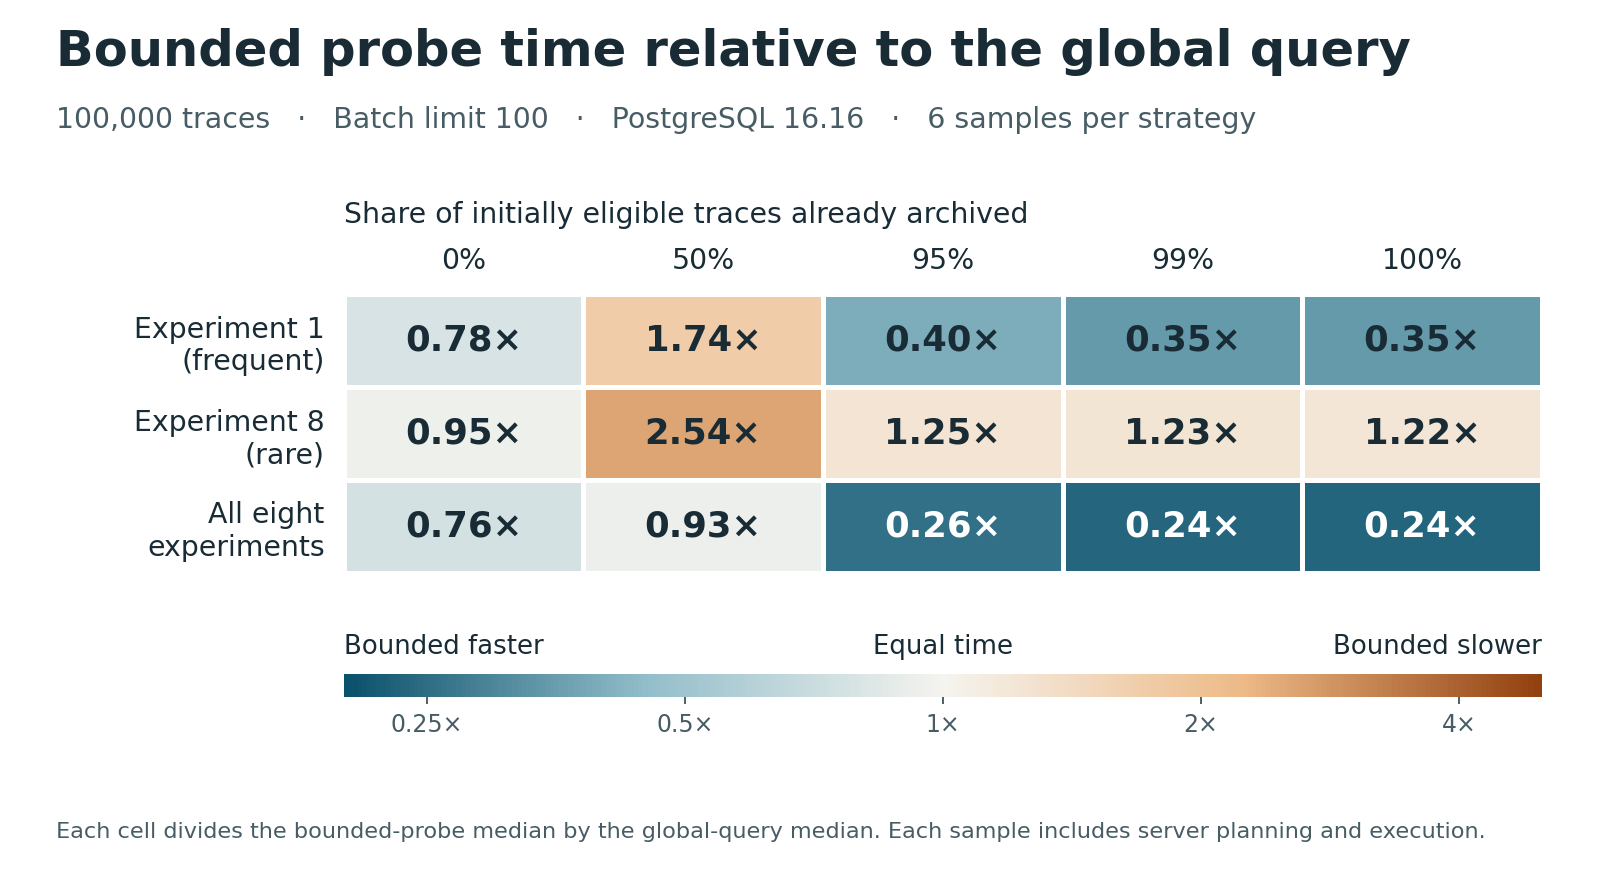
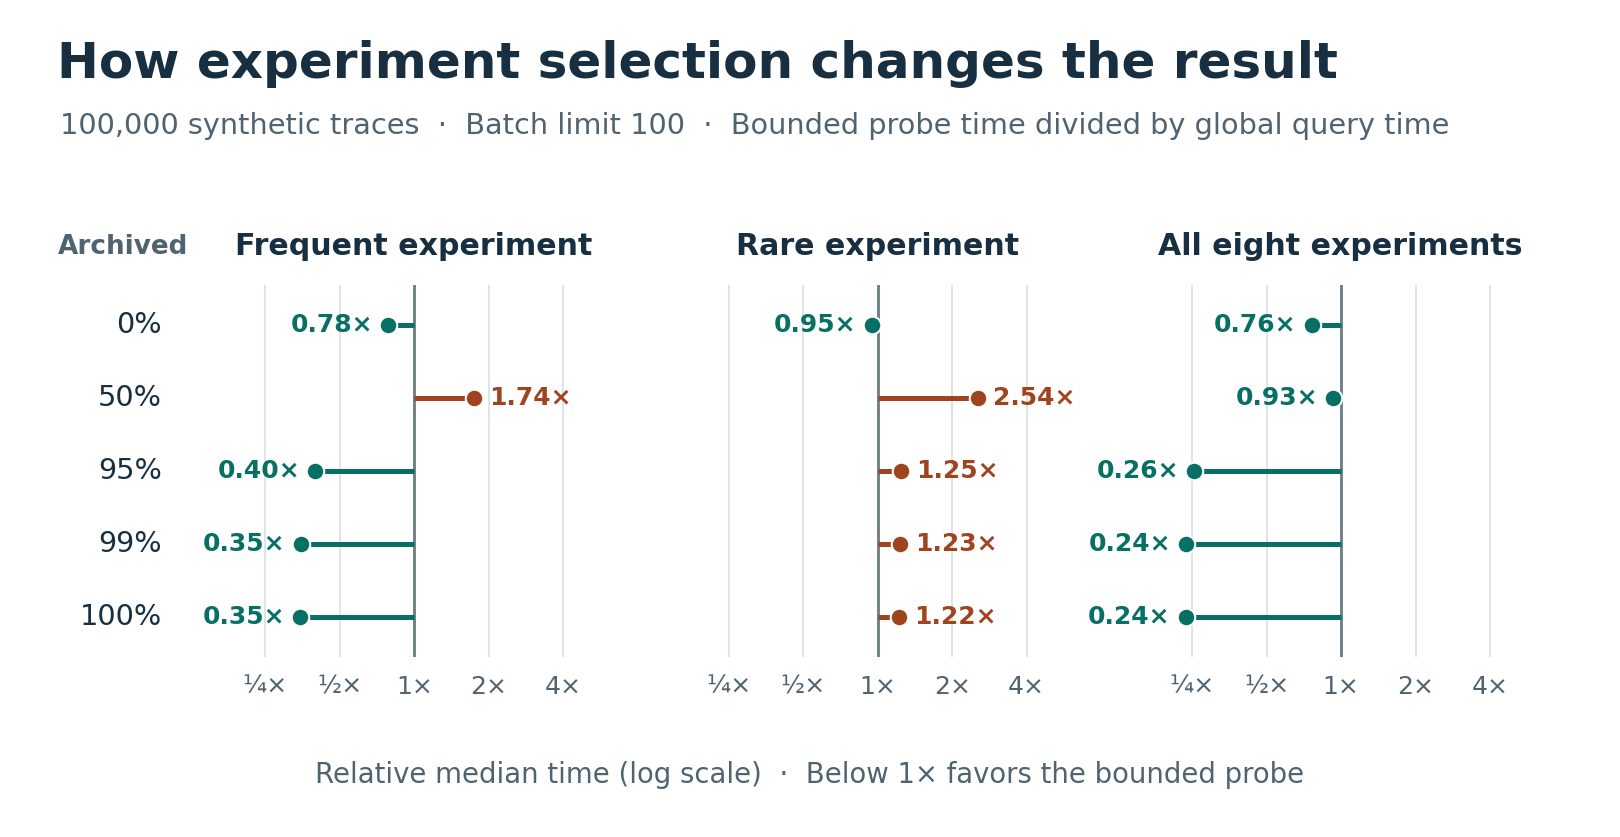
Chart archival query latency and experiment scope in the README

diff --git a/results/strategy-study/plot.py b/results/strategy-study/plot.py
@@ -1,5 +1,4 @@
-"""Regenerate scope-and-depth.png from matrix.json.gz. Requires Matplotlib."""
-
+"""Rebuild the two README charts from the published study reports. Requires Matplotlib."""
 import gzip
 import json
 from pathlib import Path
@@ -9,82 +8,115 @@ import matplotlib
 
 matplotlib.use("Agg")
 from matplotlib import pyplot as plt
-from matplotlib.colors import LinearSegmentedColormap, LogNorm
+from matplotlib.lines import Line2D
 from matplotlib.ticker import NullLocator
 
 
 HERE = Path(__file__).resolve().parent
-DEPTHS = [0, 50, 95, 99, 100]
-SCOPES = {
-    (1,): "Experiment 1\n(frequent)",
-    (8,): "Experiment 8\n(rare)",
-    tuple(range(1, 9)): "All eight\nexperiments",
-}
+INK = "#172f40"
+MUTED = "#4f6370"
+GRID = "#dee5e8"
+FRESH = "#365d80"
+LATE = "#784d88"
+FASTER = "#086f65"
+SLOWER = "#a0441f"
+DEPTHS = (0, 50, 95, 99, 100)
+ALL = tuple(range(1, 9))
+STRATEGIES = {"global": "Global (MLflow)", "per_experiment": "Per experiment", "bounded_probe": "Bounded probe"}
 
 
-def median_time(measurement):
-    pairs = zip(measurement["planning_samples_ms"], measurement["samples_ms"], strict=True)
-    return median(planning + execution for planning, execution in pairs)
+def load_report(name):
+    with gzip.open(HERE / name, "rt", encoding="utf-8") as source:
+        return json.load(source)
 
 
-def main():
-    with gzip.open(HERE / "matrix.json.gz", "rt", encoding="utf-8") as source:
-        report = json.load(source)
-    ratios = {}
-    for case in report["cases"]:
-        if case["rows"] == 100_000 and case["batch_size"] == 100:
-            strategies = case["strategies"]
-            key = tuple(case["experiment_ids"]), case["archived_pct"]
-            ratios[key] = median_time(strategies["bounded_probe"]) / median_time(strategies["global"])
-    values = [[ratios[scope, pct] for pct in DEPTHS] for scope in SCOPES]
+def median_ms(measurement):
+    samples = zip(measurement["planning_samples_ms"], measurement["samples_ms"], strict=True)
+    return median(planning + execution for planning, execution in samples)
 
-    ink = "#192c35"
-    muted = "#475c64"
-    palette = LinearSegmentedColormap.from_list(
-        "time_ratio", ["#09506a", "#92bdca", "#f5f4ef", "#edba88", "#91400e"]
-    )
-    # Reciprocal endpoints place equal speed exactly at the midpoint of the log scale.
-    extent = max(5, max(ratios.values()), 1 / min(ratios.values()))
-    scale = LogNorm(vmin=1 / extent, vmax=extent)
 
-    fig = plt.figure(figsize=(9.4, 5.2), facecolor="white")
-    fig.text(.035, .925, "Bounded probe time relative to the global query",
-             fontsize=21, weight="bold", color=ink)
-    version = report["postgres_settings"]["server_version"].split()[0]
-    fig.text(.035, .855, f"100,000 traces   ·   Batch limit 100   ·   PostgreSQL {version}"
-             f"   ·   {report['samples_per_strategy']} samples per strategy", fontsize=12, color=muted)
+def figure(height, title, caption):
+    fig = plt.figure(figsize=(9, height), facecolor="white")
+    fig.text(.035, 1 - .22 / height, title, va="top", fontsize=20, weight="bold", color=INK)
+    fig.text(.037, 1 - .62 / height, caption, va="top", fontsize=11.5, color=MUTED)
+    return fig
 
-    ax = fig.add_axes([.215, .352, .750, .315])
-    mesh = ax.pcolormesh(values, cmap=palette, norm=scale, edgecolors="white", linewidth=2)
-    ax.invert_yaxis()
-    ax.xaxis.tick_top()
-    ax.set_xticks([i + .5 for i in range(len(DEPTHS))], labels=[f"{pct}%" for pct in DEPTHS])
-    ax.set_yticks([i + .5 for i in range(len(SCOPES))], labels=SCOPES.values())
-    ax.tick_params(length=0, labelcolor=ink, labelsize=12, pad=8)
+
+def log_axis(ax, ticks, labels):
+    ax.set_xscale("log")
+    ax.set_xticks(ticks, labels)
+    ax.xaxis.set_minor_locator(NullLocator())
     ax.spines[:].set_visible(False)
-    fig.text(.215, .748, "Share of initially eligible traces already archived", fontsize=12, color=ink)
-    for row, series in enumerate(values):
-        for col, value in enumerate(series):
-            r, g, b, _ = palette(scale(value))
-            light = .2126 * r**2.2 + .7152 * g**2.2 + .0722 * b**2.2
-            ax.text(col + .5, row + .5, f"{value:.2f}×", va="center", ha="center",
-                    fontsize=15, weight="bold", color="white" if light < .24 else ink)
+    ax.tick_params(length=0, colors=MUTED, labelsize=10, pad=7)
+    ax.set_axisbelow(True)
+    ax.grid(axis="x", color=GRID, linewidth=.8)
 
-    bar_ax = fig.add_axes([.215, .211, .750, .026])
-    bar = fig.colorbar(mesh, cax=bar_ax, orientation="horizontal")
-    bar.set_ticks([.25, .5, 1, 2, 4], labels=["0.25×", "0.5×", "1×", "2×", "4×"])
-    bar.ax.xaxis.set_minor_locator(NullLocator())
-    bar.ax.tick_params(length=3, colors=muted, labelsize=10)
-    bar.outline.set_visible(False)
-    for x, label, align in [(.215, "Bounded faster", "left"), (.59, "Equal time", "center"),
-                            (.965, "Bounded slower", "right")]:
-        fig.text(x, .26, label, ha=align, fontsize=11, color=ink)
 
-    fig.text(.035, .052, "Each cell divides the bounded-probe median by the global-query median. "
-             "Each sample includes server planning and execution.", fontsize=9.5, color=muted)
-    fig.savefig(HERE / "scope-and-depth.png", dpi=170)
+def latency_chart(start, late):
+    fig = figure(3.95, "Time to select the next 100 traces",
+                 "1 million synthetic traces  ·  All eight experiments  ·  PostgreSQL "
+                 + start["postgres_settings"]["server_version"].split()[0])
+    ax = fig.add_axes([.216, .24, .735, .435])
+    log_axis(ax, [1, 3, 10, 30, 100, 300, 1000, 3000],
+             ["1", "3", "10", "30", "100", "300", "1,000", "3,000"])
+    ax.set(xlim=(.72, 3450), ylim=(-.36, 2.65))
+    ax.set_yticks([2, 1, 0], STRATEGIES.values(), fontsize=12, color=INK)
+    ax.tick_params(axis="y", pad=15)
+    ax.set_xlabel("Median planning + execution time (ms, log scale)", fontsize=11, color=MUTED, labelpad=10)
+
+    first, last = start["cases"][0], late["cases"][0]
+    for y, key in zip([2, 1, 0], STRATEGIES):
+        a, b = (median_ms(case["strategies"][key]) for case in (first, last))
+        ax.plot([a, b], [y, y], color="#b7c6cf", lw=2.3, zorder=2)
+        for x, marker, color, face in [(a, "o", FRESH, "white"), (b, "D", LATE, LATE)]:
+            ax.plot(x, y, marker=marker, mec=color, mfc=face, ms=7, mew=1.8, zorder=3)
+            ax.annotate(f"{x:,.2f}", (x, y), xytext=(0, 8), textcoords="offset points",
+                        ha="center", va="bottom", color=color, fontsize=10.5, weight="bold")
+
+    handles = [Line2D([], [], linestyle="none", marker=marker, markeredgewidth=1.8, markersize=7,
+                      markeredgecolor=color, markerfacecolor=face, label=label)
+               for marker, color, face, label in [
+                   ("o", FRESH, "white", "Fresh queue (0% archived)"),
+                   ("D", LATE, LATE, "Late queue (95% archived)")]]
+    fig.legend(handles=handles, loc="center left", bbox_to_anchor=(.027, .72), ncol=2,
+               frameon=False, handletextpad=.2, columnspacing=1.6, labelcolor=INK, fontsize=10.5)
+    fig.savefig(HERE / "query-latency.png", dpi=180)
+    plt.close(fig)
+
+
+def scope_chart(report):
+    fig = figure(4.65, "How experiment selection changes the result",
+                 "100,000 synthetic traces  ·  Batch limit 100  ·  Bounded probe time divided by global query time")
+    cases = {(tuple(c["experiment_ids"]), c["archived_pct"]): c for c in report["cases"]
+             if c["rows"] == 100_000 and c["batch_size"] == 100}
+    scopes = [((1,), "Frequent experiment"), ((8,), "Rare experiment"), (ALL, "All eight experiments")]
+    fig.text(.036, .696, "Archived", color=MUTED, fontsize=10.5, weight="bold")
+    for i, (scope, title) in enumerate(scopes):
+        ax = fig.add_axes([.13 + i * .286, .215, .251, .445])
+        log_axis(ax, [.25, .5, 1, 2, 4], ["¼×", "½×", "1×", "2×", "4×"])
+        ax.set(xlim=(.15, 6.6), ylim=(4.55, -.55))
+        ax.set_title(title, fontsize=12, loc="center", color=INK, weight="bold", pad=12)
+        ax.set_yticks(range(len(DEPTHS)))
+        ax.tick_params(axis="y", labelleft=False)
+        ax.axvline(1, color="#6d8088", lw=1.15, zorder=2)
+        for y, pct in enumerate(DEPTHS):
+            values = cases[scope, pct]["strategies"]
+            ratio = median_ms(values["bounded_probe"]) / median_ms(values["global"])
+            color = FASTER if ratio <= 1 else SLOWER
+            ax.hlines(y, 1, ratio, color=color, lw=2.0, zorder=2)
+            ax.plot(ratio, y, marker="o", mfc=color, mec="white", mew=.8, ms=7, zorder=3)
+            offset, align = (-6, "right") if ratio <= 1 else (6, "left")
+            ax.annotate(f"{ratio:.2f}×", (ratio, y), xytext=(offset, 0), textcoords="offset points",
+                        va="center", ha=align, fontsize=10, color=color, weight="bold")
+            if i == 0:
+                ax.text(-.12, y, f"{pct}%", transform=ax.get_yaxis_transform(), ha="right",
+                        va="center", color=INK, fontsize=11.5)
+    fig.text(.5, .065, "Relative median time (log scale)  ·  Below 1× favors the bounded probe",
+             ha="center", fontsize=11, color=MUTED)
+    fig.savefig(HERE / "scope-and-depth.png", dpi=180)
     plt.close(fig)
 
 
 if __name__ == "__main__":
-    main()
+    latency_chart(load_report("million-start.json.gz"), load_report("million-late.json.gz"))
+    scope_chart(load_report("matrix.json.gz"))

diff --git a/README.md b/README.md
@@ -20,21 +20,28 @@ python3 summarize.py results/strategy-study/million-late.json.gz --with-planning
 
 On PostgreSQL 16.16, each query selected **100 traces from one million synthetic traces** across eight experiments. Each figure is the median of six measurements and includes server planning and execution. The percentages refer to the share of initially eligible traces already archived, oldest first.
 
+![Median query time on a logarithmic scale. The global query was fastest on a fresh queue at 1.24 ms. With 95% archived, the bounded probe was fastest at 284.59 ms.](results/strategy-study/query-latency.png)
+
+<details>
+<summary>Exact timings and query descriptions</summary>
+
 | Query | Selection strategy | 0% archived | 95% archived |
 | --- | --- | ---: | ---: |
 | Global (MLflow) | Find the oldest eligible traces across all selected experiments. | **1.24 ms** | 1,315.50 ms |
 | Per experiment | Take up to 100 eligible traces from each experiment, then merge the results. | 4.51 ms | 1,848.73 ms |
 | Bounded probe | Check the oldest matching trace headers first. If the batch is short and more headers remain, evaluate the full eligible set. | 27.95 ms | **284.59 ms** |
 
-At 95% archived, the global query passed **853,678 trace headers** to subsequent checks to fill one batch. The bounded probe checked 200 headers, then switched to its fallback. At 0% archived, the global query filled the batch in 1.24 ms. A separate experiment traced most of the bounded probe’s first-batch overhead to PostgreSQL’s just-in-time compilation. [Query plans and compilation experiment](results/strategy-study/README.md)
+</details>
 
-The chart shows how the result changes when selecting a frequent experiment, a rare experiment, or all eight. Values below 1 mean the bounded probe was faster. [Full 100,000-trace results](results/strategy-study/matrix.md)
+At 95% archived, the global query passed **853,678 trace headers** to subsequent checks to fill one batch. The bounded probe checked 200 headers, then switched to its fallback. A separate experiment traced most of the bounded probe’s first-batch overhead to PostgreSQL’s just-in-time compilation. [Query plans and compilation experiment](results/strategy-study/README.md)
 
-![Bounded probe time divided by global query time at 100,000 traces. At 95% archived, the ratio is 0.26 across all eight experiments and 1.25 for the rare experiment.](results/strategy-study/scope-and-depth.png)
+Experiment selection changes the outcome. On 100,000 traces at 95% archived, the bounded probe used 26% of the global query’s time across all eight experiments and 125% when selecting only the rare experiment. The chart compares experiment 1 (frequent), experiment 8 (rare), and all eight at five stages of archival. [Full timing table](results/strategy-study/matrix.md)
+
+![Bounded probe time relative to global query time. A point left of 1× favors the bounded probe. At 95% archived the ratios are 0.40× for the frequent experiment, 1.25× for the rare experiment, and 0.26× across all eight.](results/strategy-study/scope-and-depth.png)
 
 ## Reproduce the benchmark
 
-On macOS or Linux, put the PostgreSQL server tools (`initdb`, `pg_ctl`, and `psql`) on your `PATH` and run the commands as a non-root user. The runner creates a temporary cluster on a private Unix socket and removes it on exit. To repeat the two workloads in the table, run the following from the checkout.
+On macOS or Linux, put the PostgreSQL server tools (`initdb`, `pg_ctl`, and `psql`) on your `PATH` and run the commands as a non-root user. The runner creates a temporary cluster on a private Unix socket and removes it on exit. To repeat the two million-trace workloads, run the following from the checkout.
 
 ```sh
 python3 study.py --rows 1000000 --scope 1,2,3,4,5,6,7,8 \
